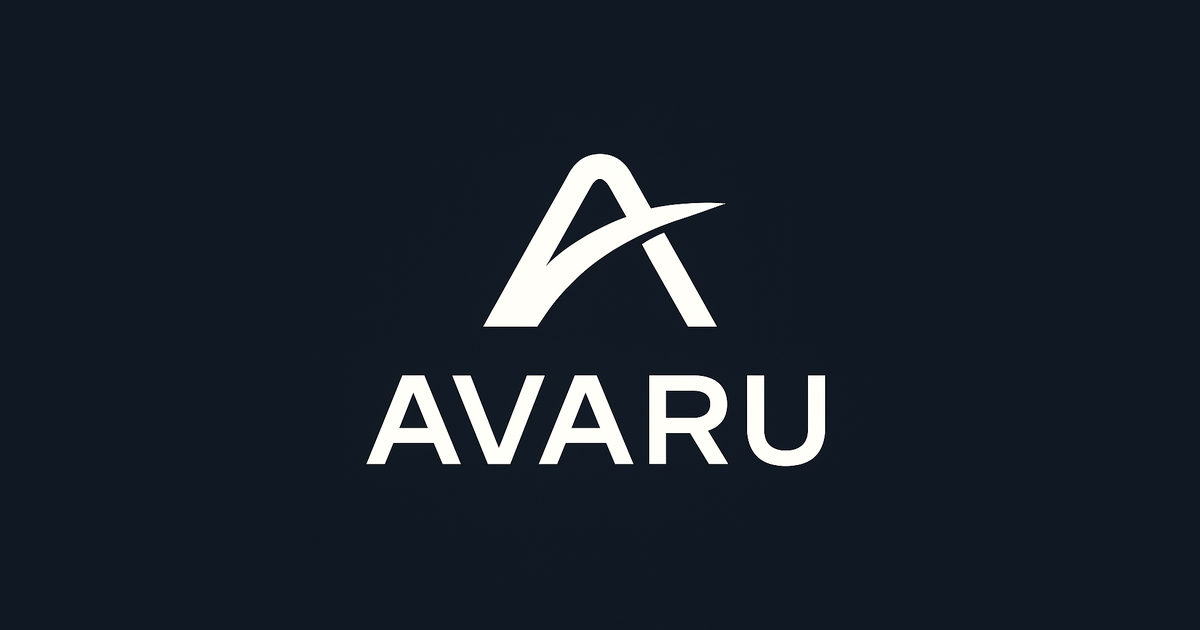
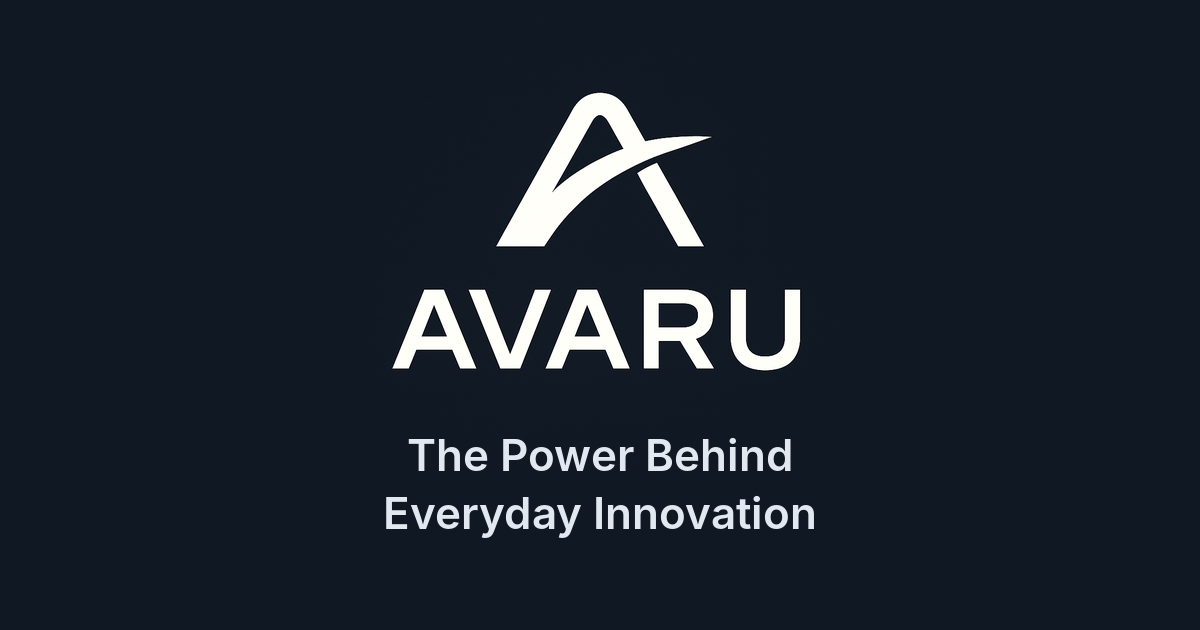
Adopt Manrope/Inter typography and official tagline
Typography
- Headings use Manrope, body text and UI use Inter, via CSS variables
  (--font-heading, --font-body) replacing Plus Jakarta Sans
- Calmer weights: headings 800 -> 700, h3 and buttons -> 600
- Uppercase labels use one letter spacing (--tracking-caps: 0.1em)
- Same Google Fonts loading as before; no new dependencies

Tagline
- Official tagline "The Power Behind Everyday Innovation" set once in
  src/site.mjs; the home heading now reads it instead of hard-coding
  the old "Building Technology for a Smarter Future"
- Social share image: official logo unchanged, tagline added below as
  separate Inter SemiBold text; cache version bumped to ?v=3

README documents the tagline and typography system.

Claude-Session: https://claude.ai/code/session_012BYZtHB5H4LAGy2YqCUCjT

Changed region(s): [[0.3083, 0.1508, 0.7092, 0.754], [0.3083, 0.7841, 0.6783, 0.8444]]

diff --git a/public/assets/styles.css b/public/assets/styles.css
@@ -17,7 +17,10 @@
   --radius: 1.25rem;
   --radius-sm: 0.75rem;
   --max: 76rem;
-  --font: 'Plus Jakarta Sans', ui-sans-serif, system-ui, -apple-system, 'Segoe UI', Roboto, Arial, sans-serif;
+  /* Typography: Manrope for headings, Inter for body text and UI. */
+  --font-heading: 'Manrope', 'Inter', ui-sans-serif, system-ui, -apple-system, 'Segoe UI', Roboto, Arial, sans-serif;
+  --font-body: 'Inter', ui-sans-serif, system-ui, -apple-system, 'Segoe UI', Roboto, Arial, sans-serif;
+  --tracking-caps: 0.1em; /* small uppercase labels */
   color-scheme: dark;
 }
 
@@ -25,7 +28,7 @@
 html { -webkit-text-size-adjust: 100%; scroll-behavior: smooth; scroll-padding-top: 6rem; }
 body {
   margin: 0;
-  font-family: var(--font);
+  font-family: var(--font-body);
   font-size: 1rem;
   line-height: 1.65;
   color: var(--text);
@@ -36,10 +39,10 @@ body {
 img, svg { display: block; max-width: 100%; }
 a { color: var(--electric); text-decoration-thickness: 1px; text-underline-offset: 3px; }
 a:hover { color: #93c5fd; }
-h1, h2, h3 { line-height: 1.15; letter-spacing: -0.02em; margin: 0 0 0.75rem; color: #fff; font-weight: 800; }
+h1, h2, h3, .h3 { font-family: var(--font-heading); line-height: 1.15; letter-spacing: -0.02em; margin: 0 0 0.75rem; color: #fff; font-weight: 700; }
 h1 { font-size: clamp(2.25rem, 5vw + 1rem, 4rem); }
 h2 { font-size: clamp(1.6rem, 2vw + 1rem, 2.25rem); }
-h3, .h3 { font-size: 1.2rem; font-weight: 700; }
+h3, .h3 { font-size: 1.2rem; font-weight: 600; }
 p { margin: 0 0 1rem; color: var(--text-2); }
 ul { margin: 0; padding: 0; }
 ::selection { background: var(--blue); color: #fff; }
@@ -125,7 +128,7 @@ main:focus { outline: none; }
 .btn {
   display: inline-flex; align-items: center; justify-content: center; gap: 0.5rem;
   min-height: 3rem; padding: 0.75rem 1.5rem; border-radius: 0.85rem;
-  font: inherit; font-weight: 700; font-size: 0.95rem; text-decoration: none; cursor: pointer;
+  font: inherit; font-weight: 600; font-size: 0.95rem; text-decoration: none; cursor: pointer;
   border: 1px solid transparent; transition: transform 0.2s ease, box-shadow 0.2s ease, background 0.2s ease, border-color 0.2s ease;
 }
 .btn .icon { width: 1.1rem; height: 1.1rem; }
@@ -148,7 +151,7 @@ main:focus { outline: none; }
 .section-head p:last-child { margin-bottom: 0; }
 .section-link { margin-top: 1.5rem; }
 .eyebrow {
-  font-size: 0.75rem; font-weight: 700; letter-spacing: 0.16em; text-transform: uppercase;
+  font-size: 0.75rem; font-weight: 600; letter-spacing: var(--tracking-caps); text-transform: uppercase;
   color: var(--electric); margin-bottom: 0.75rem;
 }
 .eyebrow a { text-decoration: none; }
@@ -217,7 +220,7 @@ a.card:hover, .product-card:hover, .capability:hover {
 @media (min-width: 1024px) { .hero { grid-template-columns: 7fr 5fr; padding-block: 5.5rem 4rem; } }
 .badge {
   display: inline-flex; align-items: center; gap: 0.5rem; padding: 0.4rem 0.8rem; border-radius: 999px;
-  font-size: 0.72rem; font-weight: 700; letter-spacing: 0.14em; text-transform: uppercase;
+  font-size: 0.72rem; font-weight: 600; letter-spacing: var(--tracking-caps); text-transform: uppercase;
   color: var(--electric); background: rgba(59, 130, 246, 0.1); border: 1px solid rgba(59, 130, 246, 0.25);
 }
 .badge .icon { width: 0.9rem; height: 0.9rem; }
@@ -308,7 +311,7 @@ a.card:hover, .product-card:hover, .capability:hover {
 }
 .product-detail-head h2 { margin: 0; }
 .product-detail-head .card-kicker { margin-bottom: 0.15rem; }
-.product-tagline { font-size: 1.15rem; font-weight: 700; color: #fff; }
+.product-tagline { font-family: var(--font-heading); font-size: 1.15rem; font-weight: 600; color: #fff; }
 .product-status-note { font-size: 0.9rem; padding: 0.75rem 1rem; border-radius: var(--radius-sm); background: rgba(255, 255, 255, 0.04); border: 1px solid var(--border); }
 
 /* Technology */
@@ -320,7 +323,7 @@ a.card:hover, .product-card:hover, .capability:hover {
 .table-wrap { overflow-x: auto; margin-bottom: 1rem; }
 table { width: 100%; border-collapse: collapse; font-size: 0.92rem; }
 th, td { text-align: left; padding: 0.7rem 0.5rem; border-bottom: 1px solid var(--border); vertical-align: middle; }
-thead th { font-size: 0.75rem; text-transform: uppercase; letter-spacing: 0.08em; color: var(--muted); }
+thead th { font-size: 0.75rem; text-transform: uppercase; letter-spacing: var(--tracking-caps); color: var(--muted); }
 tbody th { color: #fff; }
 td { color: var(--text-2); }
 @media (max-width: 420px) { th:nth-child(2), td:nth-child(2) { display: none; } }
@@ -340,7 +343,7 @@ td { color: var(--text-2); }
 /* Contact */
 .contact-layout { display: grid; gap: 1.5rem; }
 @media (min-width: 900px) { .contact-layout { grid-template-columns: 2fr 3fr; align-items: start; } }
-.contact-card .h3 { font-size: 0.8rem; text-transform: uppercase; letter-spacing: 0.12em; color: var(--muted); }
+.contact-card .h3 { font-family: var(--font-body); font-size: 0.8rem; text-transform: uppercase; letter-spacing: var(--tracking-caps); color: var(--muted); }
 .contact-email { display: inline-flex; align-items: center; gap: 0.6rem; font-weight: 700; font-size: 1.05rem; word-break: break-all; }
 .contact-line { display: flex; align-items: center; gap: 0.6rem; color: #fff; }
 .contact-line .icon { color: var(--electric); }
@@ -369,7 +372,7 @@ td { color: var(--text-2); }
 @media (min-width: 1024px) { .footer-grid { grid-template-columns: 2fr 1fr 1fr 1fr; } .footer-brand { grid-column: auto; } }
 .footer-brand p { margin-top: 1rem; font-size: 0.9rem; max-width: 22rem; }
 .footer-email { display: inline-flex; align-items: center; gap: 0.5rem; font-weight: 600; font-size: 0.9rem; word-break: break-all; }
-.footer-heading { font-size: 0.75rem; text-transform: uppercase; letter-spacing: 0.14em; color: var(--muted); margin-bottom: 0.9rem; }
+.footer-heading { font-family: var(--font-body); font-size: 0.75rem; font-weight: 600; text-transform: uppercase; letter-spacing: var(--tracking-caps); color: var(--muted); margin-bottom: 0.9rem; }
 .site-footer ul { list-style: none; display: grid; gap: 0.15rem; }
 .site-footer ul a { display: inline-block; padding: 0.3rem 0; color: var(--text-2); text-decoration: none; font-size: 0.92rem; }
 .site-footer ul a:hover { color: var(--electric); }

diff --git a/README.md b/README.md
@@ -86,14 +86,34 @@ written approval.
 | `public/brand/avaru-logo-lockup.png` | Empty margin trimmed, 334×240 | Header and footer (`src/layout.mjs`) |
 | `public/logo.png` | Resized to 512×512 | Google structured data (`src/pages/home.mjs`) |
 | `public/apple-touch-icon.png` | Resized to 180×180 | iPhone/iPad home-screen icon |
-| `public/og-image.png` | Placed on its own background colour, 1200×630 | Link previews (WhatsApp, LinkedIn, X) |
+| `public/og-image.png` | Placed, unchanged, on its own background colour (#101823), 1200×630, with the tagline below as separate text in Inter SemiBold | Link previews (WhatsApp, LinkedIn, X) |
 | `public/favicon.ico`, `public/favicon-32.png`, `public/brand/avaru-icon-256.png` | The "A" mark cropped from the official logo | Browser tab icons (the full logo is unreadable at 16–48 px) |
 
-Icon and social-image links carry `?v=2` so browsers and social networks fetch
+Icon and social-image links carry a version (`?v=2`, social image `?v=3`) so browsers and social networks fetch
 the new files instead of cached old ones. If a logo file changes again, bump
 the number in `src/layout.mjs` and `src/pages/home.mjs`.
 `npm run check` fails if a page is missing the official logo or still
 references the old placeholder.
+
+### Tagline
+
+The official tagline is **"The Power Behind Everyday Innovation"**. It lives
+in one place, `tagline` in `src/site.mjs`, which feeds the home page heading,
+the home page title and the footer. It is also set as text (not part of the
+logo artwork) in `public/og-image.png`; if the tagline changes, regenerate
+that image and bump its `?v=` number in `src/layout.mjs`.
+
+### Typography
+
+Fonts are loaded from Google Fonts in `src/layout.mjs` and set through CSS
+variables at the top of `public/assets/styles.css`:
+
+- `--font-heading`: **Manrope** (600, 700) for headings
+- `--font-body`: **Inter** (400–700) for body text, navigation, buttons and footer
+- `--tracking-caps`: letter spacing for small uppercase labels
+
+Use these variables rather than naming fonts in individual rules. The logo
+artwork keeps its own lettering; never retype it in a website font.
 
 ## Deployment (Vercel)
 
